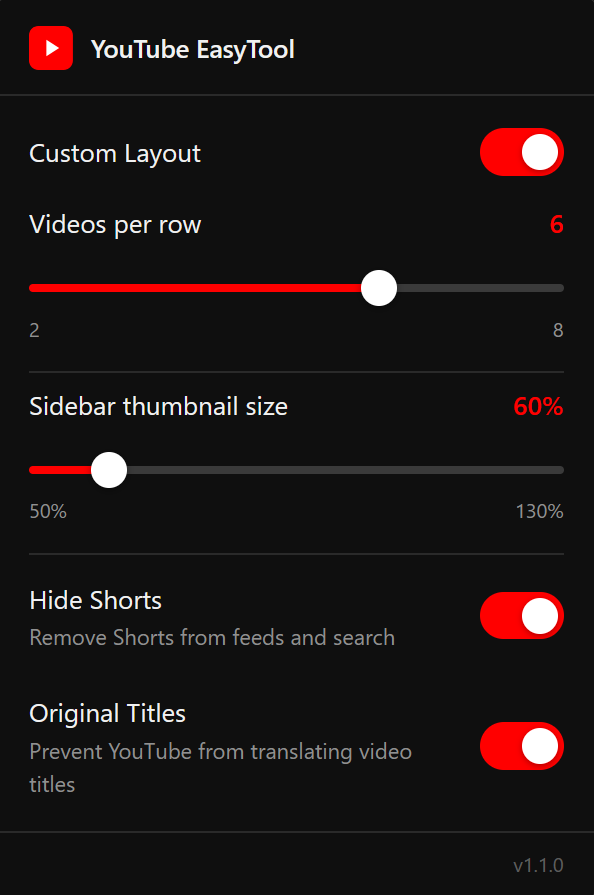
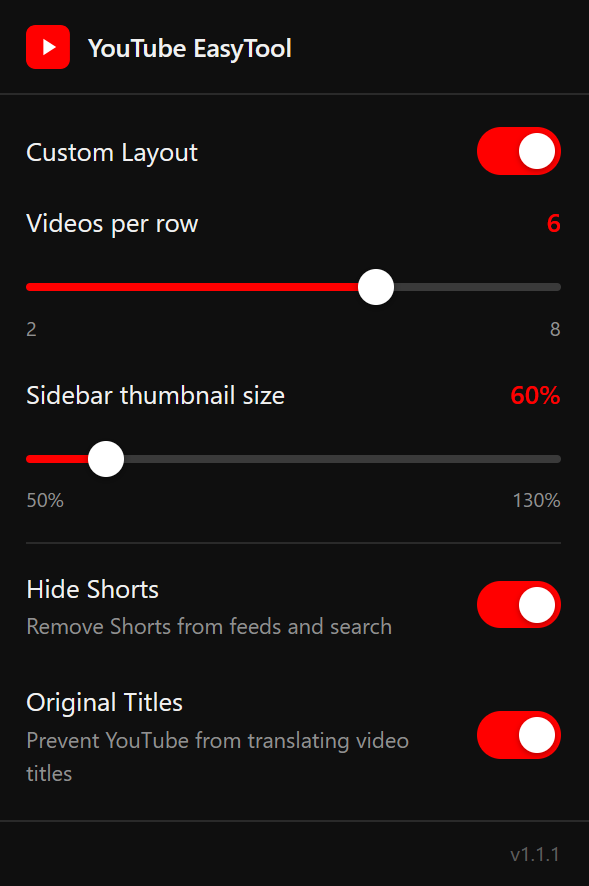
Enhance popup functionality and settings management; update version to 1.1.1

diff --git a/popup/popup.js b/popup/popup.js
@@ -16,6 +16,7 @@ const DEFAULT_SETTINGS = {
   hideShorts: false,
   originalTitles: false,
   sidebarThumbnailSize: 100,
+  savedThumbnailSize: 100,
 };
 
 const MIN_COLUMNS = 2;
@@ -31,6 +32,7 @@ const columnValue = document.getElementById('column-value');
 const sliderSection = document.getElementById('slider-section');
 
 // DOM refs — Sidebar thumbnails
+const thumbnailSliderSection = document.getElementById('thumbnail-slider-section');
 const thumbnailSlider = document.getElementById('thumbnail-slider');
 const thumbnailValue = document.getElementById('thumbnail-value');
 
@@ -39,6 +41,10 @@ const shortsToggle = document.getElementById('shorts-toggle');
 const titlesToggle = document.getElementById('titles-toggle');
 
 // ── Helpers ───────────────────────────────────────────────────────────────
+
+// In-memory cache — loaded once at init, mutated directly by event handlers.
+// Eliminates redundant chrome.storage.sync.get() calls on every interaction.
+let currentSettings = null;
 
 function saveSettings(settings) {
   chrome.storage.sync.set({ [STORAGE_KEY]: settings }, () => {
@@ -63,10 +69,13 @@ function applyUIState(settings) {
   sliderSection.classList.toggle('disabled', !settings.gridEnabled);
   columnSlider.disabled = !settings.gridEnabled;
 
-  // Sidebar thumbnails
-  thumbnailSlider.value = settings.sidebarThumbnailSize;
-  thumbnailValue.textContent = settings.sidebarThumbnailSize + '%';
+  // Sidebar thumbnails — always show the user's saved preference in the slider
+  const displaySize = settings.savedThumbnailSize ?? settings.sidebarThumbnailSize;
+  thumbnailSlider.value = displaySize;
+  thumbnailValue.textContent = displaySize + '%';
   updateSliderFill(thumbnailSlider);
+  thumbnailSliderSection.classList.toggle('disabled', !settings.gridEnabled);
+  thumbnailSlider.disabled = !settings.gridEnabled;
 
   // New features
   shortsToggle.checked = settings.hideShorts;
@@ -75,28 +84,31 @@ function applyUIState(settings) {
 
 // ── Initialization ────────────────────────────────────────────────────────
 
-// Load stored settings (or defaults) when the popup opens
+// Load stored settings (or defaults) once when the popup opens
 chrome.storage.sync.get(STORAGE_KEY, (result) => {
   if (chrome.runtime.lastError) {
     console.error('[EasyTool] Storage read failed:', chrome.runtime.lastError.message);
-    applyUIState(DEFAULT_SETTINGS);
+    currentSettings = { ...DEFAULT_SETTINGS };
+    applyUIState(currentSettings);
     return;
   }
-  const settings = Object.assign({}, DEFAULT_SETTINGS, result[STORAGE_KEY]);
-  applyUIState(settings);
+  currentSettings = Object.assign({}, DEFAULT_SETTINGS, result[STORAGE_KEY]);
+  applyUIState(currentSettings);
 });
 
 // ── Event listeners ───────────────────────────────────────────────────────
 
 // Grid toggle
 gridToggle.addEventListener('change', () => {
-  chrome.storage.sync.get(STORAGE_KEY, (result) => {
-    if (chrome.runtime.lastError) return;
-    const settings = Object.assign({}, DEFAULT_SETTINGS, result[STORAGE_KEY]);
-    settings.gridEnabled = gridToggle.checked;
-    saveSettings(settings);
-    applyUIState(settings);
-  });
+  currentSettings.gridEnabled = gridToggle.checked;
+  if (!currentSettings.gridEnabled) {
+    currentSettings.savedThumbnailSize = currentSettings.sidebarThumbnailSize;
+    currentSettings.sidebarThumbnailSize = 100;
+  } else {
+    currentSettings.sidebarThumbnailSize = currentSettings.savedThumbnailSize;
+  }
+  saveSettings(currentSettings);
+  applyUIState(currentSettings);
 });
 
 // Grid slider: live update as the user drags (real-time feedback on the page)
@@ -105,15 +117,10 @@ columnSlider.addEventListener('input', () => {
   if (isNaN(val)) val = DEFAULT_SETTINGS.gridColumns;
   val = Math.max(MIN_COLUMNS, Math.min(MAX_COLUMNS, val));
 
+  currentSettings.gridColumns = val;
   columnValue.textContent = val;
   updateSliderFill(columnSlider);
-
-  chrome.storage.sync.get(STORAGE_KEY, (result) => {
-    if (chrome.runtime.lastError) return;
-    const settings = Object.assign({}, DEFAULT_SETTINGS, result[STORAGE_KEY]);
-    settings.gridColumns = val;
-    saveSettings(settings);
-  });
+  saveSettings(currentSettings);
 });
 
 // Sidebar thumbnail slider
@@ -122,33 +129,21 @@ thumbnailSlider.addEventListener('input', () => {
   if (isNaN(val)) val = DEFAULT_SETTINGS.sidebarThumbnailSize;
   val = Math.max(MIN_THUMBNAIL, Math.min(MAX_THUMBNAIL, val));
 
+  currentSettings.sidebarThumbnailSize = val;
+  currentSettings.savedThumbnailSize = val;
   thumbnailValue.textContent = val + '%';
   updateSliderFill(thumbnailSlider);
-
-  chrome.storage.sync.get(STORAGE_KEY, (result) => {
-    if (chrome.runtime.lastError) return;
-    const settings = Object.assign({}, DEFAULT_SETTINGS, result[STORAGE_KEY]);
-    settings.sidebarThumbnailSize = val;
-    saveSettings(settings);
-  });
+  saveSettings(currentSettings);
 });
 
 // Hide Shorts toggle
 shortsToggle.addEventListener('change', () => {
-  chrome.storage.sync.get(STORAGE_KEY, (result) => {
-    if (chrome.runtime.lastError) return;
-    const settings = Object.assign({}, DEFAULT_SETTINGS, result[STORAGE_KEY]);
-    settings.hideShorts = shortsToggle.checked;
-    saveSettings(settings);
-  });
+  currentSettings.hideShorts = shortsToggle.checked;
+  saveSettings(currentSettings);
 });
 
 // Original Titles toggle
 titlesToggle.addEventListener('change', () => {
-  chrome.storage.sync.get(STORAGE_KEY, (result) => {
-    if (chrome.runtime.lastError) return;
-    const settings = Object.assign({}, DEFAULT_SETTINGS, result[STORAGE_KEY]);
-    settings.originalTitles = titlesToggle.checked;
-    saveSettings(settings);
-  });
+  currentSettings.originalTitles = titlesToggle.checked;
+  saveSettings(currentSettings);
 });

diff --git a/content/content.js b/content/content.js
@@ -80,6 +80,7 @@ if (window !== window.top) {
   }
 
   let shortsObserver = null;
+  let shortsDebounceTimer = null;
 
   function applyShortsHiding() {
     // Inject the <style> block if not already present (persists across SPA navigations)
@@ -93,10 +94,13 @@ if (window !== window.top) {
     // Run JS fallback immediately for already-rendered shelf elements
     hideShortsShelfFallback();
 
-    // Watch for dynamically added Shorts shelves after SPA navigation
+    // Watch for dynamically added Shorts shelves after SPA navigation.
+    // Debounced to avoid running querySelectorAll on every DOM mutation —
+    // YouTube fires hundreds of mutations per second.
     if (!shortsObserver) {
       shortsObserver = new MutationObserver(() => {
-        hideShortsShelfFallback();
+        clearTimeout(shortsDebounceTimer);
+        shortsDebounceTimer = setTimeout(hideShortsShelfFallback, 50);
       });
       shortsObserver.observe(document.body, { childList: true, subtree: true });
     }
@@ -110,6 +114,7 @@ if (window !== window.top) {
       shortsObserver.disconnect();
       shortsObserver = null;
     }
+    clearTimeout(shortsDebounceTimer);
 
     // Remove any inline display:none that the JS fallback applied
     document.querySelectorAll('ytd-rich-section-renderer[style*="display"]').forEach((el) => {
@@ -220,7 +225,11 @@ if (window !== window.top) {
     }
 
     // Sidebar thumbnail size
-    applySidebarThumbnails(settings.sidebarThumbnailSize);
+    if (settings.gridEnabled) {
+      applySidebarThumbnails(settings.sidebarThumbnailSize);
+    } else {
+      clearSidebarThumbnailOverride();
+    }
 
     // Original Titles
     applyOriginalTitles(settings.originalTitles);
@@ -228,22 +237,25 @@ if (window !== window.top) {
 
   // ─── Initialization ───────────────────────────────────────────────────────
 
+  // In-memory cache — avoids redundant storage reads on every SPA navigation.
+  let cachedSettings = null;
+
   // Load settings on page load
   chrome.storage.sync.get(STORAGE_KEY, (result) => {
-    handleSettings(result[STORAGE_KEY]);
+    cachedSettings = result[STORAGE_KEY];
+    handleSettings(cachedSettings);
   });
 
   // React immediately when the user changes settings in the popup
   chrome.storage.onChanged.addListener((changes, area) => {
     if (area === 'sync' && changes[STORAGE_KEY]) {
-      handleSettings(changes[STORAGE_KEY].newValue);
+      cachedSettings = changes[STORAGE_KEY].newValue;
+      handleSettings(cachedSettings);
     }
   });
 
   // Re-apply after YouTube's internal SPA navigation (Home → Video → Home, etc.)
   document.addEventListener('yt-navigate-finish', () => {
-    chrome.storage.sync.get(STORAGE_KEY, (result) => {
-      setTimeout(() => handleSettings(result[STORAGE_KEY]), 400);
-    });
+    setTimeout(() => handleSettings(cachedSettings), 400);
   });
 }

diff --git a/popup/popup.html b/popup/popup.html
@@ -3,6 +3,8 @@
 <head>
   <meta charset="UTF-8">
   <meta name="viewport" content="width=device-width, initial-scale=1.0">
+  <meta http-equiv="Content-Security-Policy" content="script-src 'self'; style-src 'self';">
+
   <title>YouTube EasyTool</title>
   <link rel="stylesheet" href="popup.css">
 </head>
@@ -50,11 +52,7 @@
           <span>8</span>
         </div>
       </div>
-    </section>
 
-    <div class="section-divider"></div>
-
-    <section class="feature-group">
       <div class="slider-section" id="thumbnail-slider-section">
         <div class="slider-header">
           <span class="feature-label">Sidebar thumbnail size</span>
@@ -105,7 +103,7 @@
   </main>
 
   <footer class="footer">
-    <span class="version">v1.1.0</span>
+    <span class="version">v1.1.1</span>
   </footer>
 
   <script src="popup.js"></script>
